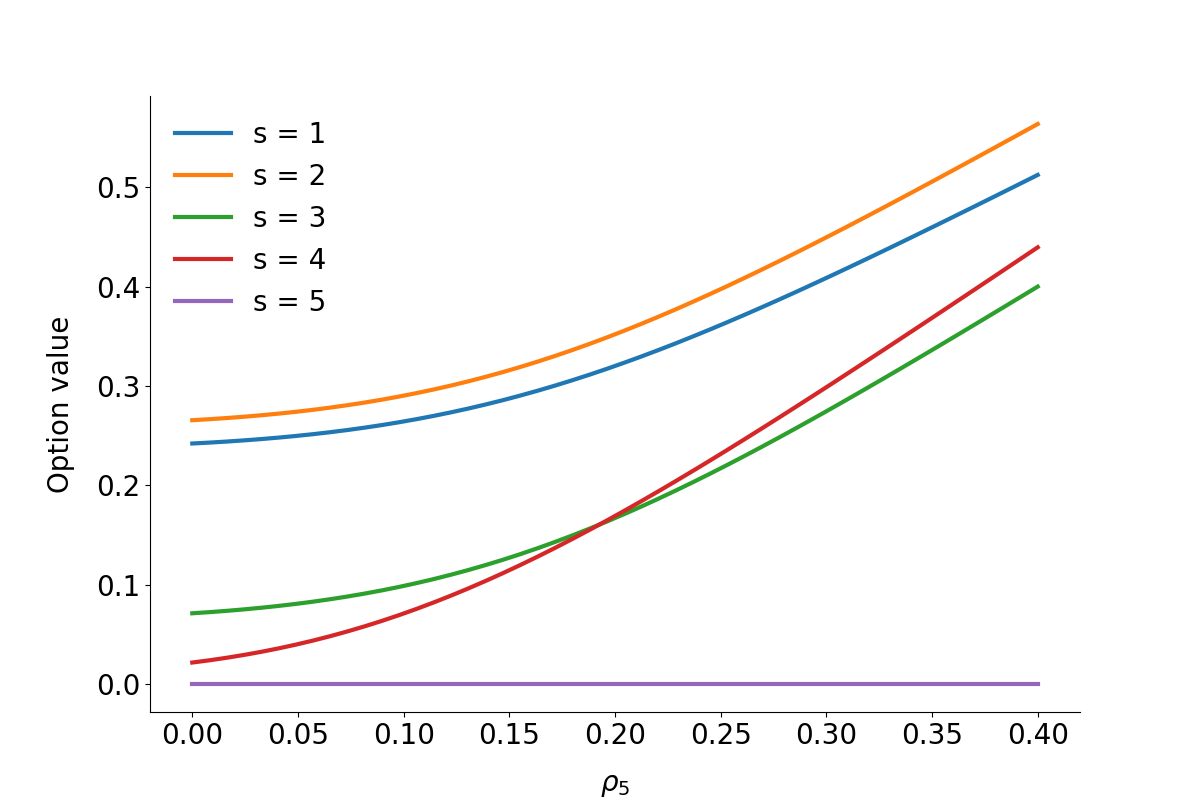
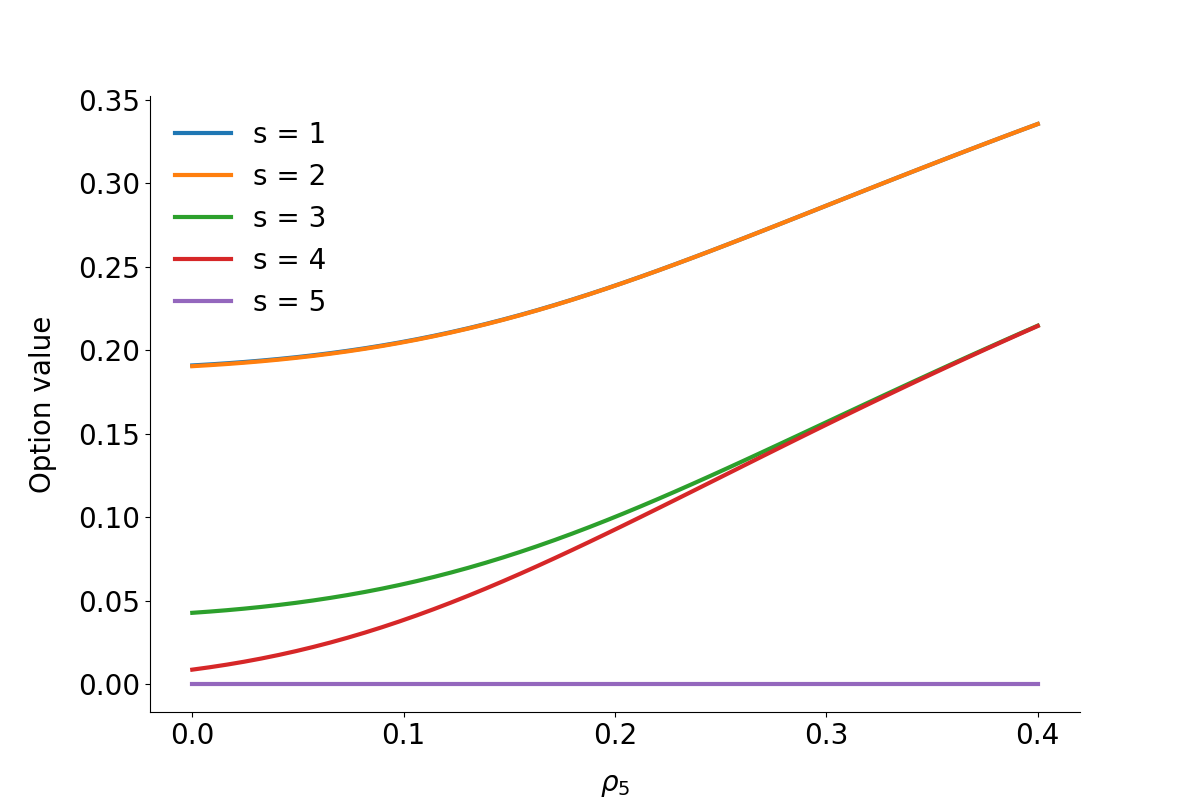
working on tomorrow's lecture

diff --git a/lectures/02_returns_schooling/files/s-true-returns.tex b/lectures/02_returns_schooling/files/s-true-returns.tex
@@ -1,7 +1,7 @@
 %-------------------------------------------------------------------------------
 %-------------------------------------------------------------------------------
 \begin{frame}\begin{center}
-		\LARGE\textbf{True returns}
+	\LARGE\textbf{True rate of return}
 \end{center}\end{frame}
 %-------------------------------------------------------------------------------
 %-------------------------------------------------------------------------------
@@ -15,11 +15,20 @@ Y_s = \left[\sum^T_{x = 0}(1 + r)^{-1} Y(s, x)\right]\epsilon_s
 %-------------------------------------------------------------------------------
 %-------------------------------------------------------------------------------
 \begin{frame}
-We assume that $\E_{s - 1}(\epsilon_s) = 1$ and define expected earnings associated with schooling $s$ conditional on current schooling $s - 1$,
+\begin{figure}[htp]\centering
+\caption{Model structure}
+\scalebox{0.35}{\includegraphics{fig-model-true-structure}}
+\end{figure}
+\end{frame}
+%-------------------------------------------------------------------------------
+%-------------------------------------------------------------------------------
+\begin{frame}
+We define expected earnings associated with schooling $s$ conditional on current schooling $s - 1$,
 
 \begin{align*}
 \bar{Y}_s = \E_{s - 1}(Y_s)
 \end{align*}
+
 \end{frame}
 %-------------------------------------------------------------------------------
 %-------------------------------------------------------------------------------
@@ -48,7 +57,7 @@ for $s \leq \bar{S}$. At the maximum schooling level, $\bar{S}$, after all infor
 The endogenously determined probability of going on from school level $s$ to $s + 1$ is
 
 \begin{align*}
-p_{s + 1, s} = \Pr\left(\epsilon_s \leq \frac{E_s(V_{s + 1})}{(1 + r) \bar{Y}_s}\right),
+p_{s + 1, s} = \Pr\left(\epsilon_s \leq \frac{E_s(V_{s + 1})}{(1 + r) Y_s}\right),
 \end{align*}
 where $E_s(V_{s + 1})$ may depend on $\epsilon_s$ because it enters the agent's information set.
 \end{frame}
@@ -58,16 +67,47 @@ where $E_s(V_{s + 1})$ may depend on $\epsilon_s$ because it enters the agent's 
 The average earnings of a person who stops at schooling level $s$ are
 
 \begin{align*}
-E_{s - 1}(V_s) & = \underbrace{(1 - p_{s + 1, s}) \bar{Y}_s E_{s - 1}\left(\epsilon\mid \epsilon \ge \frac{E_s(V_{s + 1})}{(1 + r)\bar{Y}_s)}\right)}_{\text{direct return}} \\
+E_{s - 1}(V_s) & = \underbrace{(1 - p_{s + 1, s}) Y_s E_{s - 1}\left(\epsilon\mid \epsilon \ge \frac{E_s(V_{s + 1})}{(1 + r)Y_s}\right)}_{\text{direct return}} \\
  & + \underbrace{p_{s + 1, s} \left(\frac{E_{s - 1}(V_{s + 1})}{1 + r}\right)}_{\text{option value}}.
 \end{align*}
+\end{frame}
+%-------------------------------------------------------------------------------
+%-------------------------------------------------------------------------------
+\begin{frame}\textbf{Objects of interest}\vspace{0.3cm}
+
+\begin{itemize}
+\item Option value
+\begin{align*}
+O_{s, s - 1} = \E_{s - 1}\left[V_s - Y_s\right]\\
+\end{align*}
+\item True rate of return
+\begin{align*}
+R_{s, s - 1} = \frac{\E_{s - 1}\left[V_s\right] - Y_{s - 1}}{Y_{s -1}}
+\end{align*}
+\end{itemize}
+\end{frame}
+%-------------------------------------------------------------------------------
+%-------------------------------------------------------------------------------
+\begin{frame}\textbf{Model specification}
+\begin{align*}\begin{array}{l@{\qquad}l}
+\log(\epsilon_s) \sim \N(0, \sigma) & r = 0.1   \\
+Y_{s + 1} = (1 + \rho_{s + 1}) Y_s & \sigma = 0.1 \\
+\end{array}\end{align*}
+\end{frame}
+%-------------------------------------------------------------------------------
+%-------------------------------------------------------------------------------
+\begin{frame}
+\begin{figure}[htp]\centering
+\caption{Scenarios}
+\scalebox{0.35}{\includegraphics{fig-model-true-scenarios}}
+\end{figure}
 \end{frame}
 %-------------------------------------------------------------------------------
 %-------------------------------------------------------------------------------
 \begin{frame}
 We can analyze this model in a Jupyter Noteboook. Visit
 \begin{center}
-\url{http://bit.ly/2IVfMHA}
+\url{http://bit.ly/2smCj9p}
 \end{center}
 for the implementation.
 \end{frame}
@@ -83,7 +123,7 @@ for the implementation.
 %-------------------------------------------------------------------------------
 \begin{frame}
 \begin{figure}[htp]\centering
-\caption{Option values and nonlinearities}
+\caption{Option values and sheepskin effects}
 \scalebox{0.35}{\includegraphics{fig-model-true-nonlinearities}}
 \end{figure}
 \end{frame}
@@ -97,9 +137,3 @@ for the implementation.
 \end{frame}
 %-------------------------------------------------------------------------------
 %-------------------------------------------------------------------------------
-\begin{frame}
-\begin{figure}[htp]\centering
-\caption{Model structure}
-\scalebox{0.35}{\includegraphics{fig-model-true-structure}}
-\end{figure}
-\end{frame}

diff --git a/lectures/02_returns_schooling/files/s-mincer-returns.tex b/lectures/02_returns_schooling/files/s-mincer-returns.tex
@@ -29,7 +29,8 @@ $\Rightarrow$ How to interpret the \textit{Mincer Coefficient} $\rho_s$?
 V(s) = Y(s)\int_s^T e^{-rt} dt = \frac{Y(s)}{r}(e^{-rs} - e^{-rT})
 \end{align*}
 \end{frame}
-
+%-------------------------------------------------------------------------------
+%-------------------------------------------------------------------------------
 \begin{frame}
 
 Equalizing present value of earnings across schooling levels:
@@ -39,7 +40,8 @@ Equalizing present value of earnings across schooling levels:
 
 $\Rightarrow$ $\rho_s$ equals the market interest rate and the internal rate of return to schooling by construction.
 \end{frame}
-
+%-------------------------------------------------------------------------------
+%-------------------------------------------------------------------------------
 \begin{frame}\textbf{Model features}\vspace{0.3cm}
 \begin{itemize}\setlength\itemsep{1em}
 \item identical abilities and opportunities
@@ -52,7 +54,7 @@ $\Rightarrow$ $\rho_s$ equals the market interest rate and the internal rate of 
 %-------------------------------------------------------------------------------
 %-------------------------------------------------------------------------------
 \begin{frame}\begin{center}
-\LARGE\textit{Accounting-Identity Model}
+    \LARGE\textit{Accounting-Identity Model}
 \end{center}\end{frame}
 %-------------------------------------------------------------------------------
 %-------------------------------------------------------------------------------
@@ -165,6 +167,26 @@ for the implementation.
 \begin{align*}
 \frac{\partial \ln{Y(s, x)}}{\partial s \partial t} = \frac{\rho_0\kappa}{T} > 0
 \end{align*}
+\end{itemize}
+\end{frame}
+%-------------------------------------------------------------------------------
+%-------------------------------------------------------------------------------
+\begin{frame}
+\begin{figure}[htp]\centering
+\caption{Experience profiles}\scalebox{0.3}{\includegraphics{fig-model-mincer-experience}}
+\end{figure}
+\end{frame}
+%-------------------------------------------------------------------------------
+%-------------------------------------------------------------------------------
+\begin{frame}
+\begin{figure}[htp]\centering
+\caption{Age profiles}\scalebox{0.3}{\includegraphics{fig-model-mincer-age}}
+\end{figure}
+\end{frame}
+%-------------------------------------------------------------------------------
+%-------------------------------------------------------------------------------
+\begin{frame}
+\begin{itemize}
 \item The variance of earnings over the life cycle has a U-shaped pattern.
 \end{itemize}
 \end{frame}
@@ -224,21 +246,7 @@ for the implementation.
 %-------------------------------------------------------------------------------
 \begin{frame}
 \begin{figure}[htp]\centering
-\caption{Mincerian Experience Profiles}\label{Mincerian Experience Profiles}\scalebox{0.3}{\includegraphics{fig-model-mincer-experience}}
-\end{figure}
-\end{frame}
-%-------------------------------------------------------------------------------
-%-------------------------------------------------------------------------------
-\begin{frame}
-\begin{figure}[htp]\centering
-\caption{Mincerian Age Profiles}\label{Mincerian Age Profiles}\scalebox{0.3}{\includegraphics{fig-model-mincer-age}}
-\end{figure}
-\end{frame}
-%-------------------------------------------------------------------------------
-%-------------------------------------------------------------------------------
-\begin{frame}
-\begin{figure}[htp]\centering
-\caption{Mincerian Variance Profiles}\label{Mincerian Variance Profiles}\scalebox{0.3}{\includegraphics{fig-model-mincer-variance}}
+\caption{Variance profiles}\scalebox{0.3}{\includegraphics{fig-model-mincer-variance}}
 \end{figure}
 \end{frame}
 %-------------------------------------------------------------------------------

diff --git a/lectures/02_returns_schooling/files/s-housekeeping.tex b/lectures/02_returns_schooling/files/s-housekeeping.tex
@@ -1,7 +1,7 @@
 %-------------------------------------------------------------------------------
 %-------------------------------------------------------------------------------
 \begin{frame}\begin{center}
-		\LARGE\textbf{Housekeeping}
+	\LARGE\textbf{Housekeeping}
 \end{center}\end{frame}
 %-------------------------------------------------------------------------------
 %-------------------------------------------------------------------------------
@@ -33,6 +33,15 @@ If you have further questions, please feel free to contact us using
 %-------------------------------------------------------------------------------
 %-------------------------------------------------------------------------------
 \begin{frame}
+\begin{figure}[htp]\centering
+	\caption{Modeling process}\scalebox{0.45}
+	{\includegraphics{../../01_introduction/material/fig-modeling-process}}
+\end{figure}
+
+\end{frame}
+%-------------------------------------------------------------------------------
+%-------------------------------------------------------------------------------
+\begin{frame}
 \textbf{Multidimensionality of skills}\vspace{0.3cm}
 
 \begin{itemize}
@@ -40,6 +49,15 @@ If you have further questions, please feel free to contact us using
 \item \bibentry{Eisenhauer.2015b}
 \end{itemize}
 
+
+\end{frame}
+%-------------------------------------------------------------------------------
+%-------------------------------------------------------------------------------
+\begin{frame}
+
+\begin{center}
+{\fontsize{125}{60}\selectfont ?}
+\end{center}
 
 \end{frame}
 %-------------------------------------------------------------------------------

diff --git a/lectures/01_introduction/files/s-models.tex b/lectures/01_introduction/files/s-models.tex
@@ -22,6 +22,16 @@ Economic models facilitate experiential learning.\vspace{0.3cm}
 \end{frame}
 %-------------------------------------------------------------------------------
 %-------------------------------------------------------------------------------
+\begin{frame}
+	\begin{figure}[htp]\centering
+		\caption{Modeling process}\scalebox{0.45}
+		{\includegraphics{fig-modeling-process}}
+	\end{figure}
+\end{frame}
+%-------------------------------------------------------------------------------
+%-------------------------------------------------------------------------------
+%-------------------------------------------------------------------------------
+%-------------------------------------------------------------------------------
 \begin{frame}\textbf{Famous examples}\vspace{0.3cm}
 
 \begin{itemize}\setlength\itemsep{1em}

diff --git a/lectures/02_returns_schooling/files/s-internal-returns.tex b/lectures/02_returns_schooling/files/s-internal-returns.tex
@@ -1,7 +1,7 @@
 %-------------------------------------------------------------------------------
 %-------------------------------------------------------------------------------
 \begin{frame}\begin{center}
-\LARGE\textbf{Internal rates of returns}
+\LARGE\textbf{Internal rate of returns}
 \end{center}\end{frame}
 %-------------------------------------------------------------------------------
 %-------------------------------------------------------------------------------

diff --git a/lectures/02_returns_schooling/files/s-introduction.tex b/lectures/02_returns_schooling/files/s-introduction.tex
@@ -24,3 +24,11 @@
 \end{frame}
 %-------------------------------------------------------------------------------
 %-------------------------------------------------------------------------------
+\begin{frame}\textbf{Return concepts}\vspace{0.3cm}
+
+\begin{itemize}\setlength\itemsep{1em}
+\item Mincer returns
+\item internal rate of return
+\item true rate of return
+\end{itemize}
+\end{frame}

diff --git a/lectures/05_dynamic_model/files/s-title.tex b/lectures/05_dynamic_model/files/s-title.tex
@@ -1,6 +1,7 @@
 \input{../shared/header.tex}
 
-\title{Dynamic model of human capital accumulation}
+\title{Economics of Human Capital}
+\subtitle{\vspace{0.3cm}Dynamic model of human capital accumulation}
 \author{Philipp Eisenhauer}
 
 \date{}

diff --git a/lectures/06_intergenerational_transmission/files/s-title.tex b/lectures/06_intergenerational_transmission/files/s-title.tex
@@ -1,6 +1,7 @@
 \input{../shared/header.tex}
 
-\title{Intergenerational transmission of skills}
+\title{Economics of Human Capital}
+\subtitle{\vspace{0.3cm}Intergenerational transmission of skills}
 \author{Philipp Eisenhauer}
 
 \date{}

diff --git a/lectures/04_static_model/files/s-title.tex b/lectures/04_static_model/files/s-title.tex
@@ -1,6 +1,7 @@
 \input{../shared/header.tex}
 
-\title{Static model of educational choice}
+\title{Economics of Human Capital}
+\subtitle{\vspace{0.3cm}Static model of educational choice}
 \author{Philipp Eisenhauer}
 
 \date{}

diff --git a/lectures/03_multidimensionality_skills/files/s-title.tex b/lectures/03_multidimensionality_skills/files/s-title.tex
@@ -1,6 +1,7 @@
 \input{../shared/header.tex}
 
-\title{Multidimensionality of skills}
+\title{Economics of Human Capital}
+\subtitle{\vspace{0.3cm}Multidimensionality of skills}
 \author{Philipp Eisenhauer}
 
 \date{}

diff --git a/lectures/07_human_capital_policy/files/s-title.tex b/lectures/07_human_capital_policy/files/s-title.tex
@@ -1,6 +1,7 @@
 \input{../shared/header.tex}
 
-\title{Human capital policy}
+\title{Economics of Human Capital}
+\subtitle{\vspace{0.3cm}Human capital policy}
 \author{Philipp Eisenhauer}
 
 \date{}

diff --git a/lectures/01_introduction/files/s-title.tex b/lectures/01_introduction/files/s-title.tex
@@ -1,6 +1,7 @@
 \input{../shared/header.tex}
 
-\title{Introduction}
+\title{Economics of Human Capital}
+\subtitle{\vspace{0.3cm}Introduction}
 \author{Philipp Eisenhauer}
 
 \date{}
